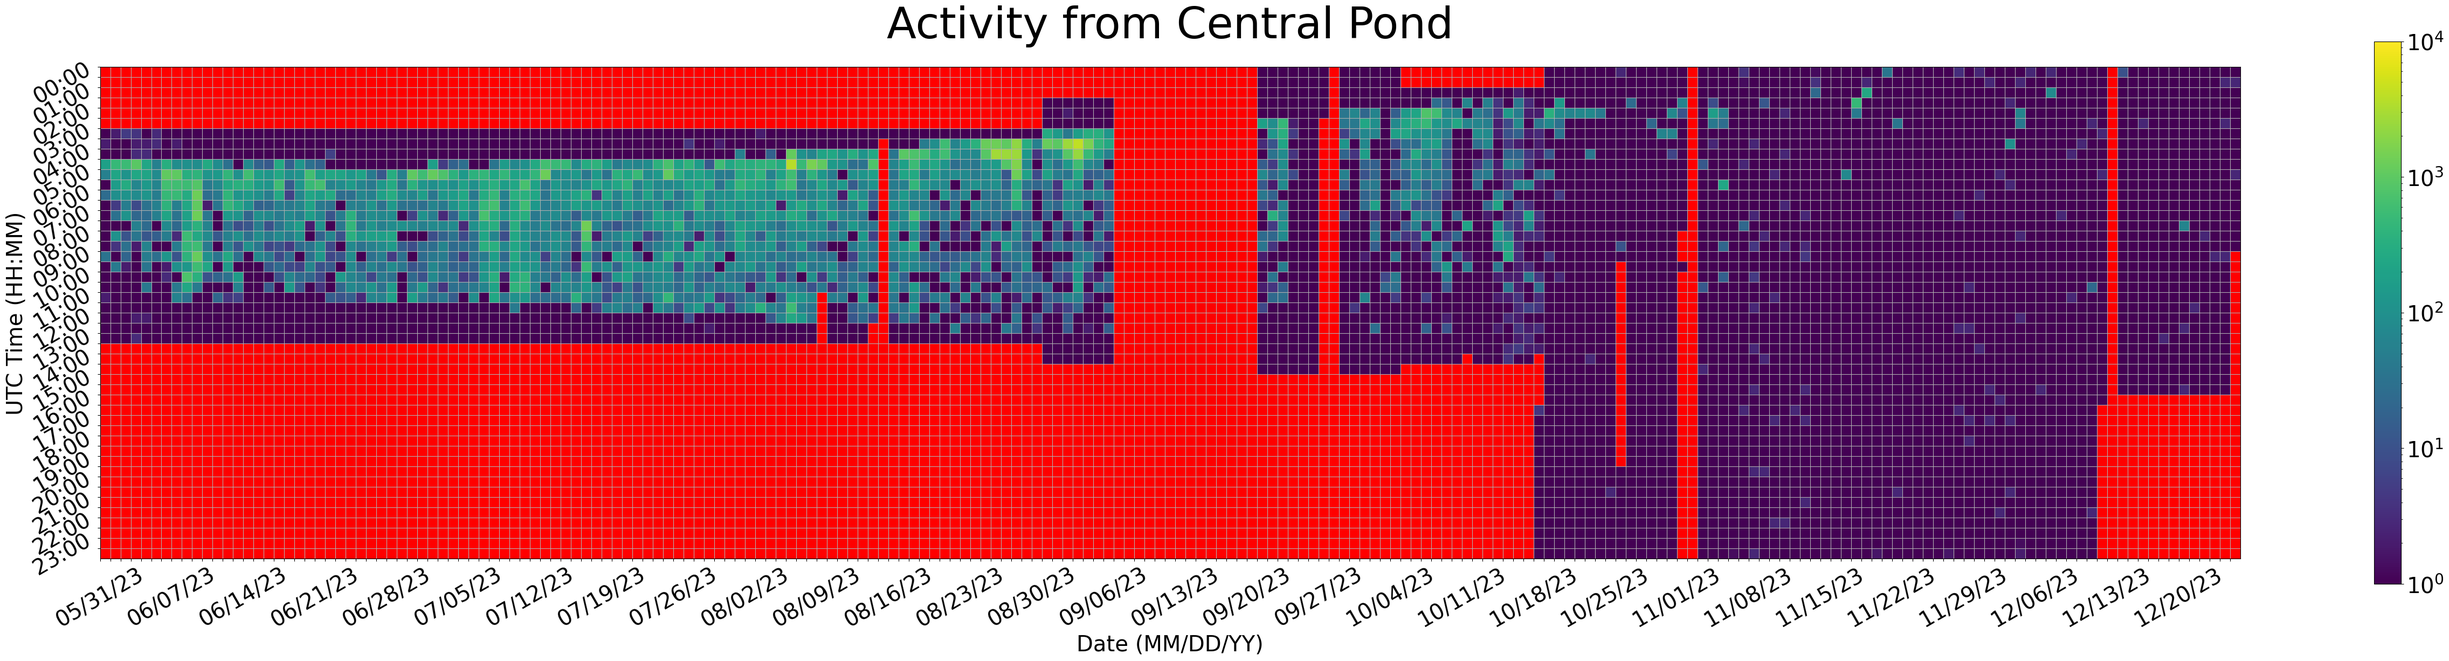
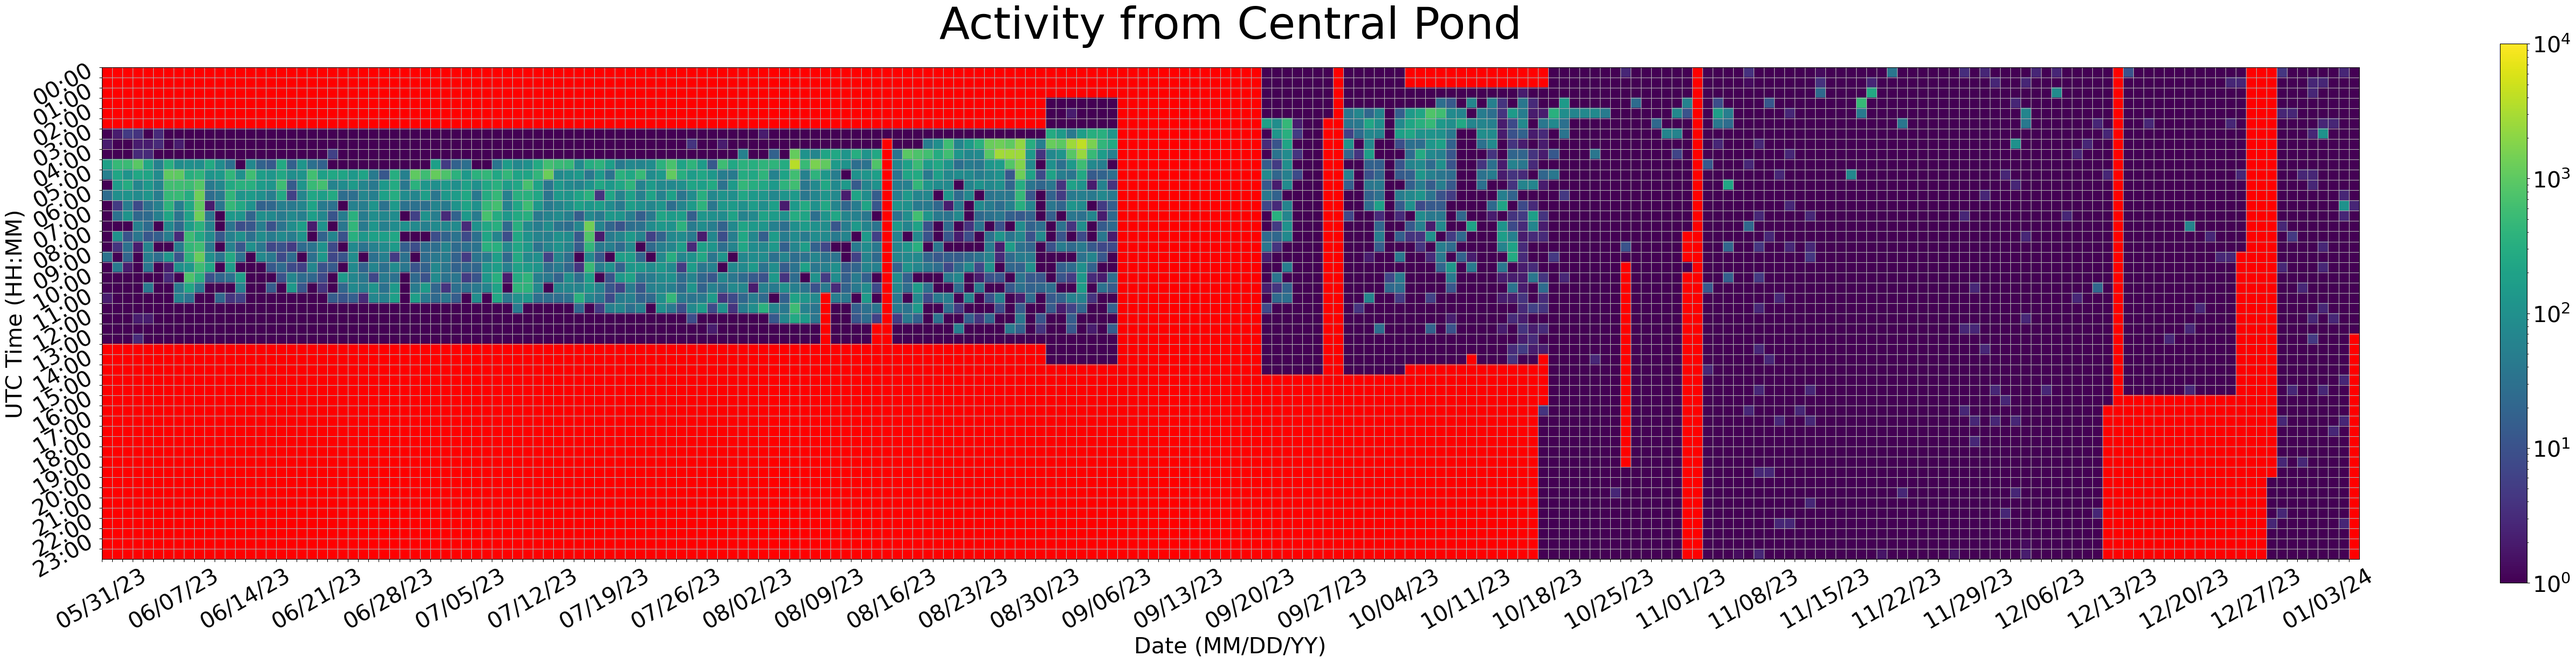
updated plotting to include 2024 files

diff --git a/src/batdt2_pipeline.py b/src/batdt2_pipeline.py
@@ -353,13 +353,14 @@ def shape_activity_array_into_grid(cfg, data_params):
     resampled_df = num_dets.resample(data_params["resample_tag"]).sum().between_time(cfg['recording_start'], cfg['recording_end'], inclusive='left')
 
     activity_datetimes = pd.to_datetime(resampled_df.index.values)
-    raw_dates = activity_datetimes.strftime("%m/%d/%y")
+    raw_dates = activity_datetimes.date
     raw_times = activity_datetimes.strftime("%H:%M")
 
     col_name = f"num_of_detections"
     data = list(zip(raw_dates, raw_times, resampled_df[col_name]))
     activity = pd.DataFrame(data, columns=["Date (UTC)", "Time (UTC)", col_name])
     activity_df = activity.pivot(index="Time (UTC)", columns="Date (UTC)", values=col_name)
+    activity_df.columns = pd.to_datetime(activity_df.columns).strftime('%m/%d/%y')
     activity_df.to_csv(f"{data_params['output_dir']}/activity_plot__{csv_tag}.csv")
 
     return activity_df
@@ -432,18 +433,19 @@ def construct_cumulative_activity(data_params, cfg):
             - Recordings where the Audiomoth experienced errors are colored red.
     """
 
-    new_df = dd.read_csv(f"{Path(__file__).parent}/../output_dir/recover-2023*/{data_params['site']}/activity__*.csv", assume_missing=True).compute()
+    new_df = dd.read_csv(f"{Path(__file__).parent}/../output_dir/recover-202[3|4]*/{data_params['site']}/activity__*.csv", assume_missing=True).compute()
     new_df["date_and_time_UTC"] = pd.to_datetime(new_df["date_and_time_UTC"], format="%Y-%m-%d %H:%M:%S%z")
     new_df.pop(new_df.columns[0])
 
     resampled_df = new_df.resample(data_params["resample_tag"], on="date_and_time_UTC").sum().between_time(cfg['recording_start'], cfg['recording_end'], inclusive='left')
 
     activity_datetimes = pd.to_datetime(resampled_df.index.values)
-    raw_dates = activity_datetimes.strftime("%m/%d/%y")
+    raw_dates = activity_datetimes.date
     raw_times = activity_datetimes.strftime("%H:%M")
     data = list(zip(raw_dates, raw_times, resampled_df['num_of_detections']))
     activity = pd.DataFrame(data, columns=["Date (UTC)", "Time (UTC)", 'num_of_detections'])
     activity_df = activity.pivot(index="Time (UTC)", columns="Date (UTC)", values='num_of_detections')
+    activity_df.columns = pd.to_datetime(activity_df.columns).strftime('%m/%d/%y')
     cum_plots_dir = f'{Path(__file__).parent}/../output_dir/cumulative_plots/'
     activity_df.to_csv(f'{cum_plots_dir}/cumulative_activity__{data_params["site"].split()[0]}_{data_params["resample_tag"]}.csv')
 
